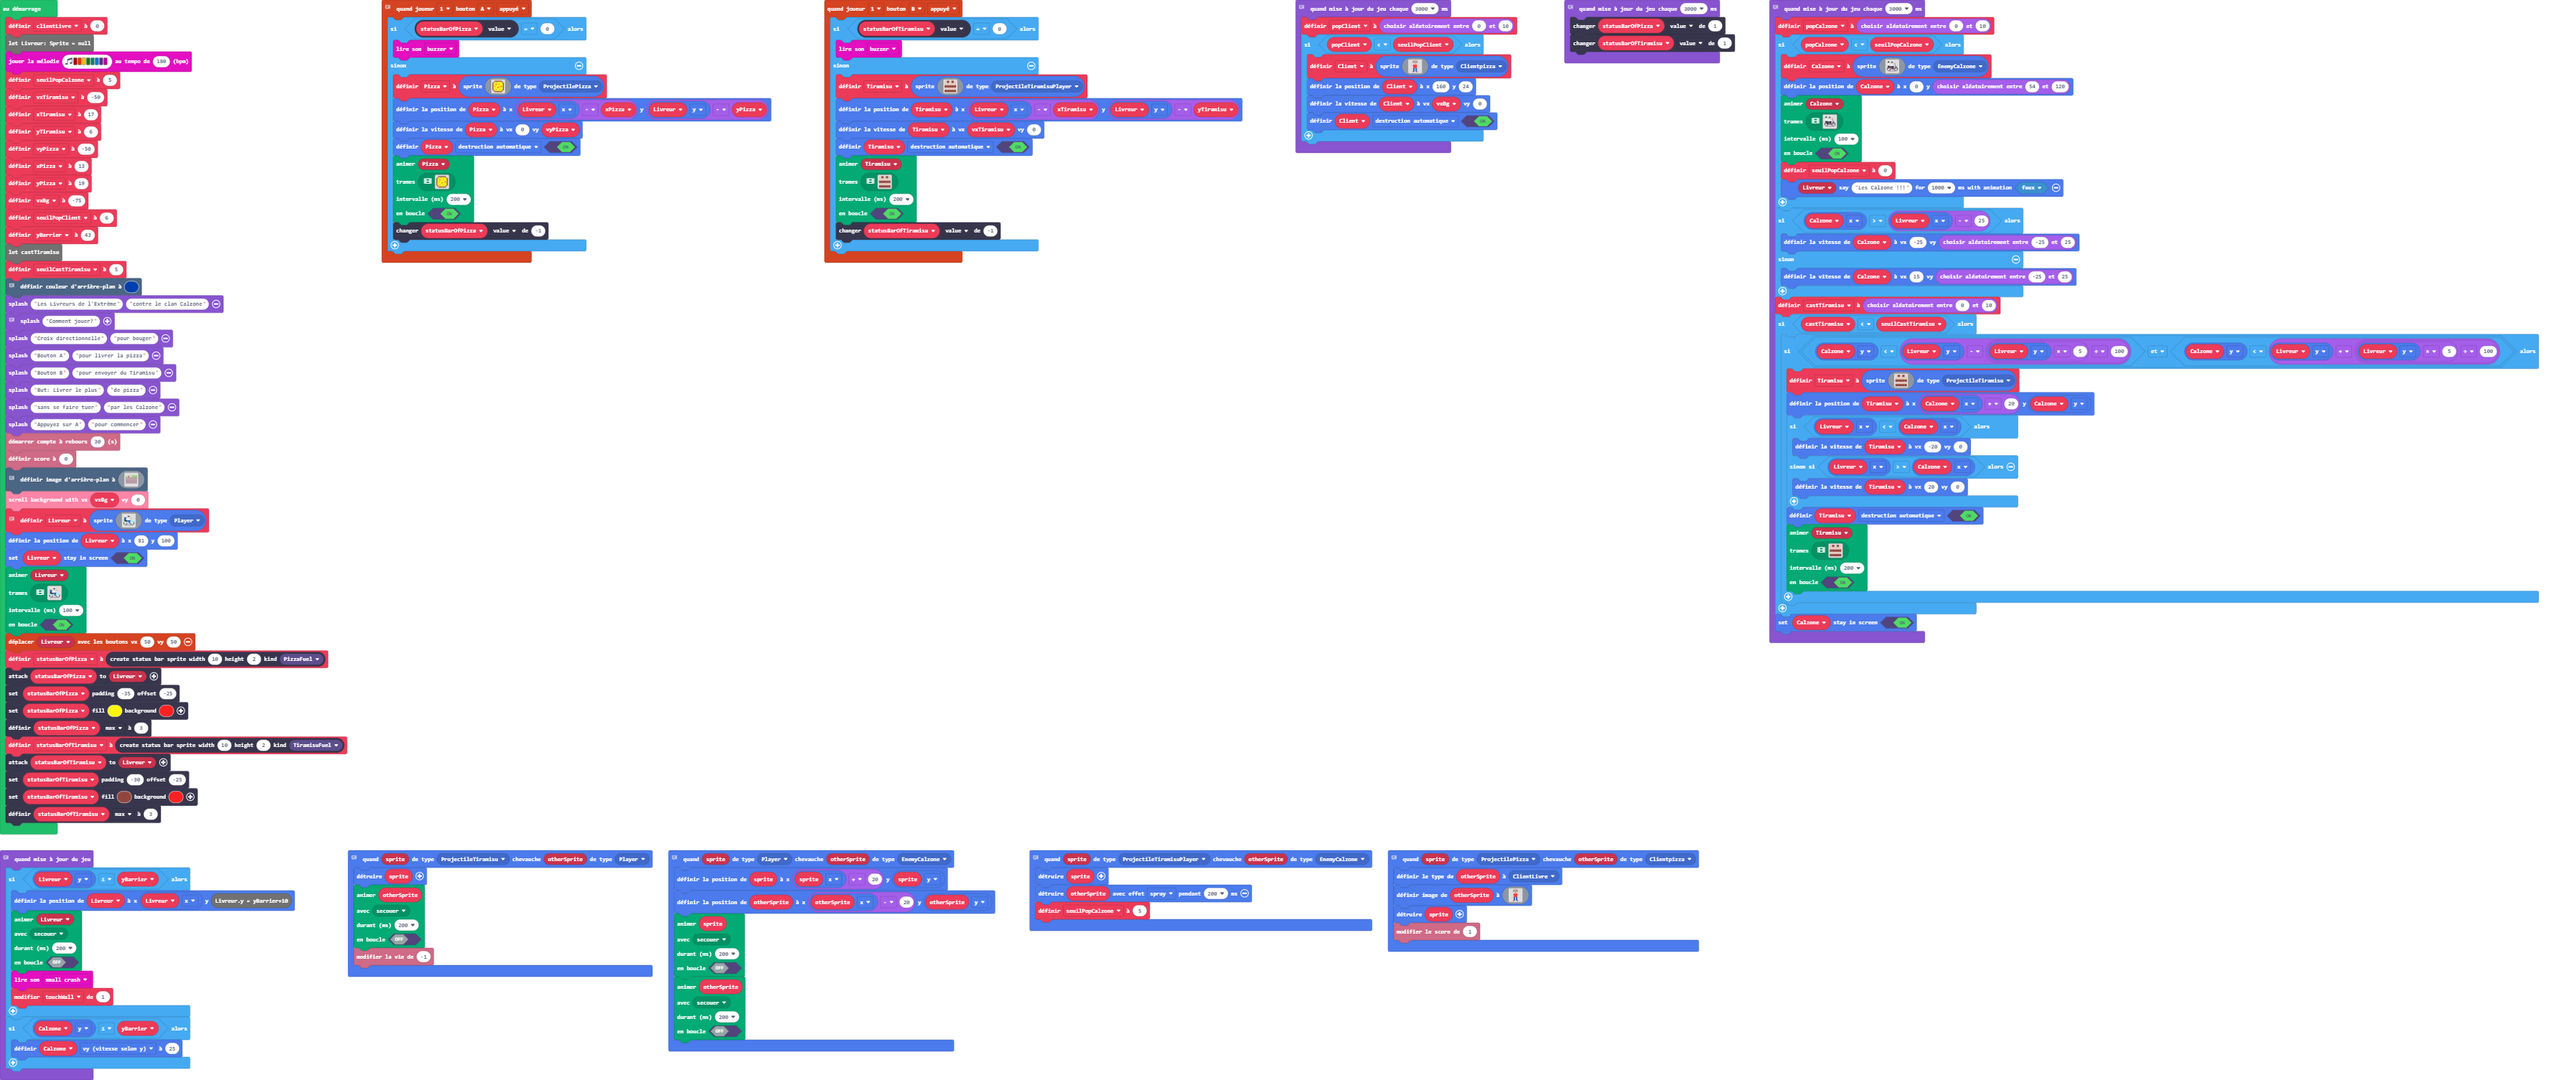
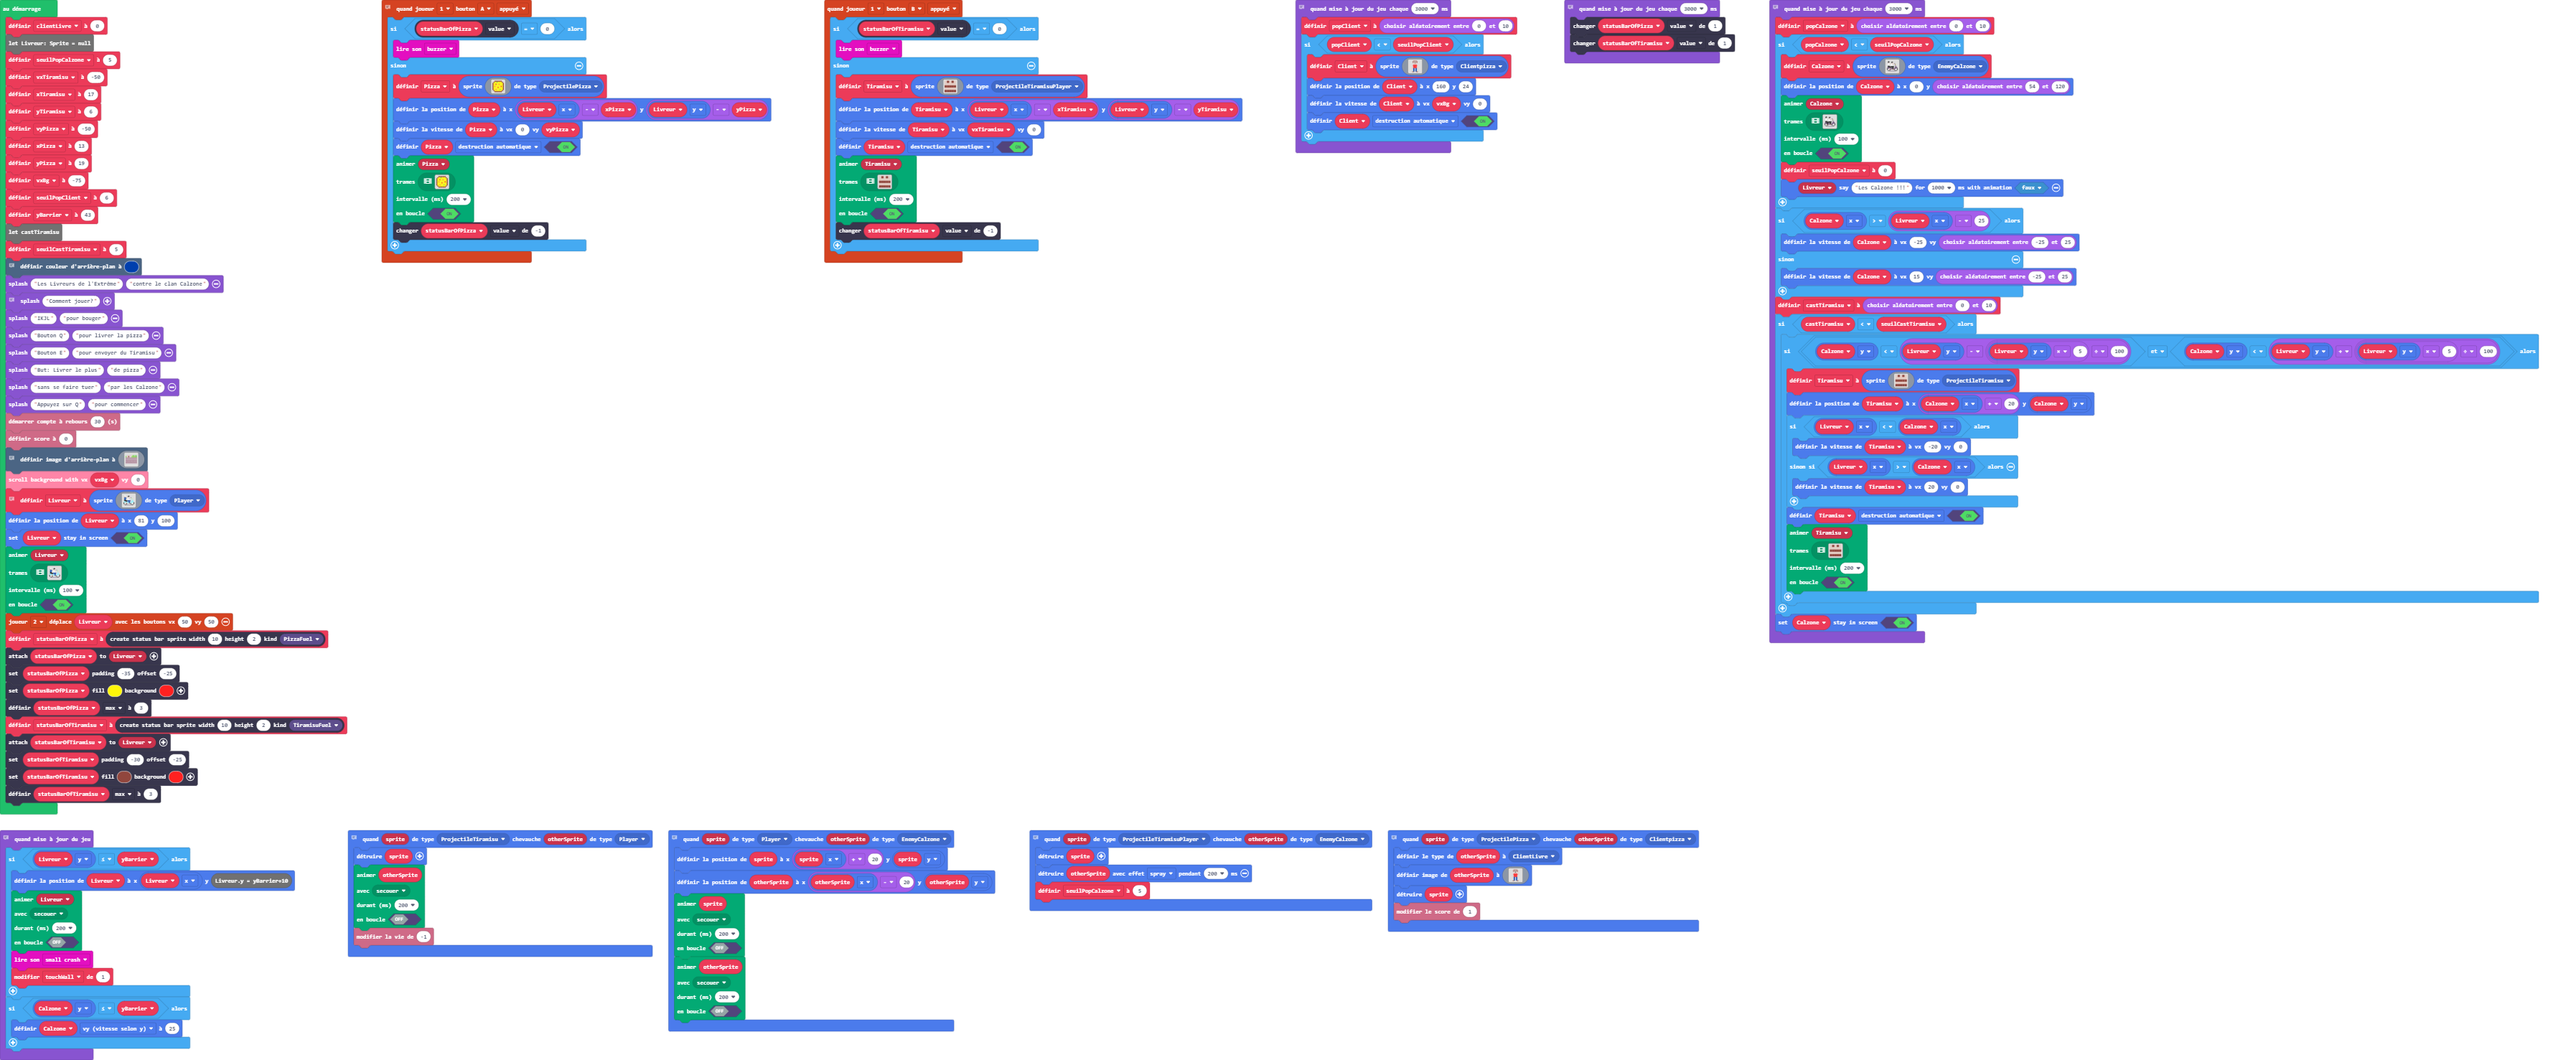
Modification des commande, KeyBoard du J2 pour bouger mais A B du J1

Changed region(s): [[0.1248, 0.0, 0.9986, 0.6229], [0.0, 0.1557, 0.6553, 0.9655], [0.0, 0.0311, 0.0936, 0.1246]]

diff --git a/main.ts b/main.ts
@@ -122,12 +122,12 @@ game.splash("Les Livreurs de l'Extrême", "contre le clan Calzone")
 // Create a true starting page with the logo of Les Livreurs de l'Extrême
 // Create a introductive music
 game.splash("Comment jouer?")
-game.splash("Croix directionnelle", "pour bouger")
-game.splash("Bouton A", "pour livrer la pizza")
-game.splash("Bouton B", "pour envoyer du Tiramisu")
+game.splash("IKJL", "pour bouger")
+game.splash("Bouton Q", "pour livrer la pizza")
+game.splash("Bouton E", "pour envoyer du Tiramisu")
 game.splash("But: Livrer le plus", "de pizza")
 game.splash("sans se faire tuer", "par les Calzone")
-game.splash("Appuyez sur A", "pour commencer")
+game.splash("Appuyez sur Q", "pour commencer")
 info.startCountdown(30)
 info.setScore(0)
 // Background
@@ -144,7 +144,7 @@ assets.animation`scooterAnim`,
 100,
 true
 )
-controller.moveSprite(Livreur, 50, 50)
+controller.player2.moveSprite(Livreur, 50, 50)
 statusBarOfPizza = statusbars.create(10, 2, StatusBarKind.PizzaFuel)
 statusBarOfPizza.attachToSprite(Livreur)
 statusBarOfPizza.setOffsetPadding(-25, -35)
@@ -173,7 +173,7 @@ game.onUpdate(function () {
     }
 })
 // pop client
-game.onUpdateInterval(3000, function () {
+game.onUpdateInterval(1000, function () {
     popClient = randint(0, 10)
     if (popClient < seuilPopClient) {
         Client = sprites.create(assets.image`Client`, SpriteKind.Clientpizza)
@@ -183,12 +183,12 @@ game.onUpdateInterval(3000, function () {
     }
 })
 // Re-Fuel des jauges Pizza et Tiramisu
-game.onUpdateInterval(3000, function () {
+game.onUpdateInterval(5000, function () {
     statusBarOfPizza.value += 1
     statusBarOfTiramisu.value += 1
 })
 // pop Calzone (toutes les 3sec si joueur en face des calzone, tiramisu tiré par les calzone)
-game.onUpdateInterval(3000, function () {
+game.onUpdateInterval(2000, function () {
     popCalzone = randint(0, 10)
     if (popCalzone < seuilPopCalzone) {
         Calzone = sprites.create(assets.image`calzone`, SpriteKind.EnemyCalzone)
